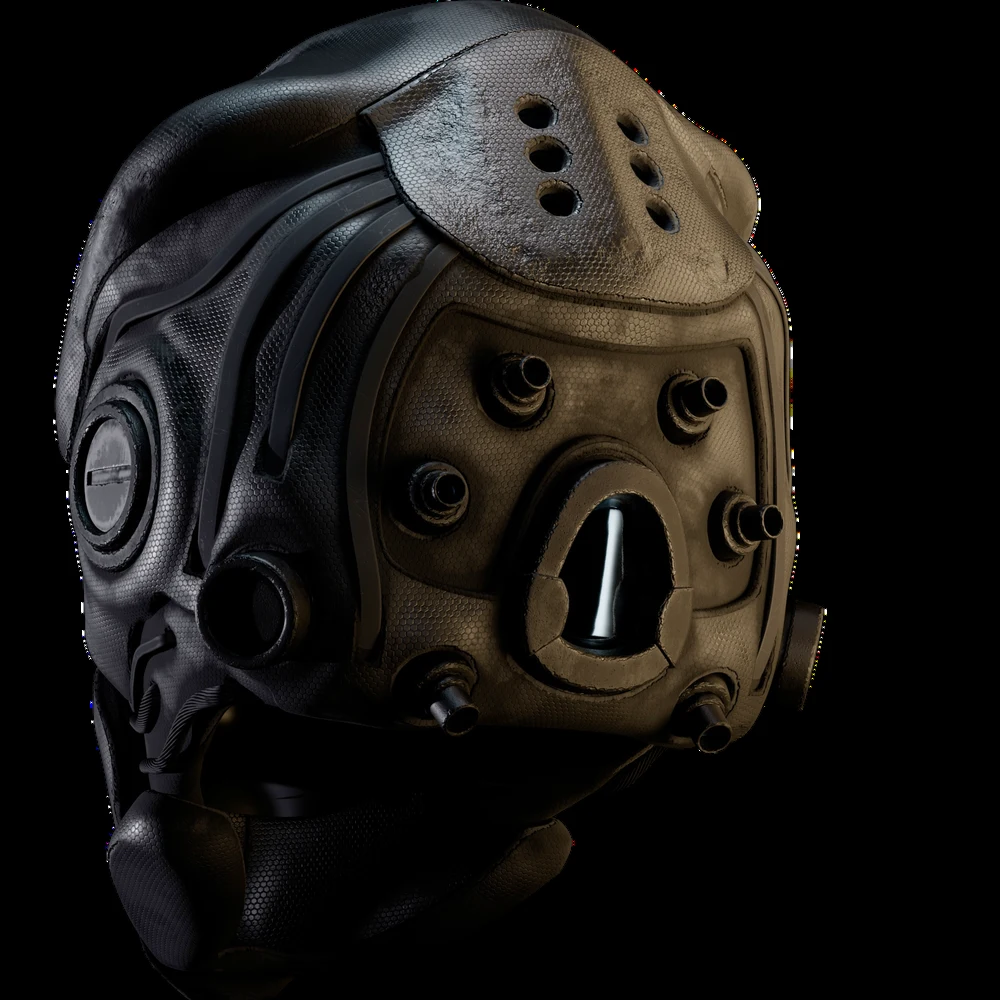
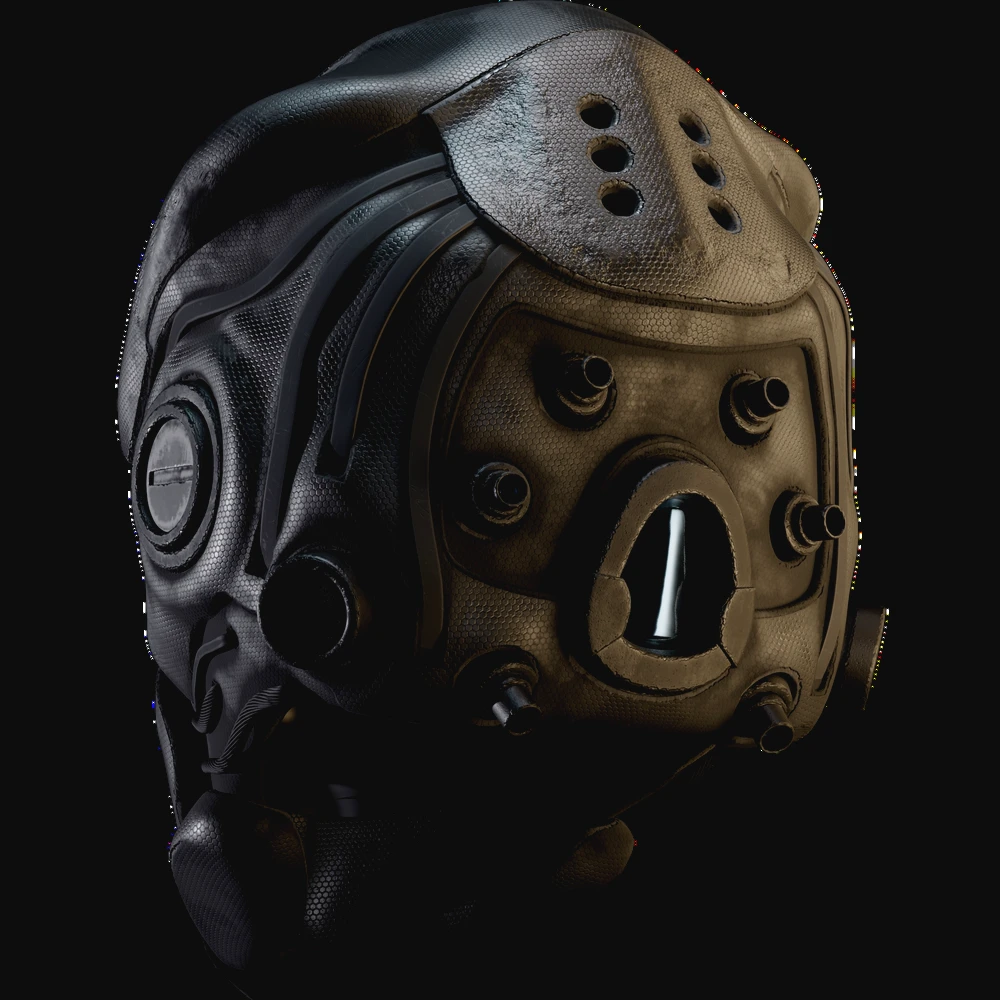
N7-T1.2 : vue arrière sans fond noir, nouvelle affiche en vignette

diff --git a/contact.html b/contact.html
@@ -16,11 +16,11 @@
   <meta property="og:description" content="Lorenzo Brun Di Dia — Character Artist & Groom Artist, 3D Generalist. Student in Character Design at ARTFX Montpellier.">
   <meta property="og:type" content="website">
   <link rel="icon" href="assets/favicon.svg" type="image/svg+xml">
-  <link rel="stylesheet" href="css/style.css?v=20261106-2">
-  <script src="data/site.js?v=20261106-2" defer></script>
-  <script src="data/projects.js?v=20261106-2" defer></script>
-  <script src="js/lightbox.js?v=20261106-2" defer></script>
-  <script src="js/app.js?v=20261106-2" defer></script>
+  <link rel="stylesheet" href="css/style.css?v=20261106-3">
+  <script src="data/site.js?v=20261106-3" defer></script>
+  <script src="data/projects.js?v=20261106-3" defer></script>
+  <script src="js/lightbox.js?v=20261106-3" defer></script>
+  <script src="js/app.js?v=20261106-3" defer></script>
 </head>
 <body data-page="contact">
   <a class="skip-link" href="#main">Skip to content</a>

diff --git a/project.html b/project.html
@@ -16,11 +16,11 @@
   <meta property="og:description" content="Lorenzo Brun Di Dia — Character Artist & Groom Artist, 3D Generalist. Student in Character Design at ARTFX Montpellier.">
   <meta property="og:type" content="website">
   <link rel="icon" href="assets/favicon.svg" type="image/svg+xml">
-  <link rel="stylesheet" href="css/style.css?v=20261106-2">
-  <script src="data/site.js?v=20261106-2" defer></script>
-  <script src="data/projects.js?v=20261106-2" defer></script>
-  <script src="js/lightbox.js?v=20261106-2" defer></script>
-  <script src="js/app.js?v=20261106-2" defer></script>
+  <link rel="stylesheet" href="css/style.css?v=20261106-3">
+  <script src="data/site.js?v=20261106-3" defer></script>
+  <script src="data/projects.js?v=20261106-3" defer></script>
+  <script src="js/lightbox.js?v=20261106-3" defer></script>
+  <script src="js/app.js?v=20261106-3" defer></script>
 </head>
 <body data-page="project">
   <a class="skip-link" href="#main">Skip to content</a>

diff --git a/about.html b/about.html
@@ -16,11 +16,11 @@
   <meta property="og:description" content="Lorenzo Brun Di Dia — Character Artist & Groom Artist, 3D Generalist. Student in Character Design at ARTFX Montpellier.">
   <meta property="og:type" content="website">
   <link rel="icon" href="assets/favicon.svg" type="image/svg+xml">
-  <link rel="stylesheet" href="css/style.css?v=20261106-2">
-  <script src="data/site.js?v=20261106-2" defer></script>
-  <script src="data/projects.js?v=20261106-2" defer></script>
-  <script src="js/lightbox.js?v=20261106-2" defer></script>
-  <script src="js/app.js?v=20261106-2" defer></script>
+  <link rel="stylesheet" href="css/style.css?v=20261106-3">
+  <script src="data/site.js?v=20261106-3" defer></script>
+  <script src="data/projects.js?v=20261106-3" defer></script>
+  <script src="js/lightbox.js?v=20261106-3" defer></script>
+  <script src="js/app.js?v=20261106-3" defer></script>
 </head>
 <body data-page="about">
   <a class="skip-link" href="#main">Skip to content</a>

diff --git a/index.html b/index.html
@@ -16,11 +16,11 @@
   <meta property="og:description" content="Lorenzo Brun Di Dia — Character Artist & Groom Artist, 3D Generalist. Student in Character Design at ARTFX Montpellier.">
   <meta property="og:type" content="website">
   <link rel="icon" href="assets/favicon.svg" type="image/svg+xml">
-  <link rel="stylesheet" href="css/style.css?v=20261106-2">
-  <script src="data/site.js?v=20261106-2" defer></script>
-  <script src="data/projects.js?v=20261106-2" defer></script>
-  <script src="js/lightbox.js?v=20261106-2" defer></script>
-  <script src="js/app.js?v=20261106-2" defer></script>
+  <link rel="stylesheet" href="css/style.css?v=20261106-3">
+  <script src="data/site.js?v=20261106-3" defer></script>
+  <script src="data/projects.js?v=20261106-3" defer></script>
+  <script src="js/lightbox.js?v=20261106-3" defer></script>
+  <script src="js/app.js?v=20261106-3" defer></script>
 </head>
 <body data-page="home">
   <a class="skip-link" href="#main">Skip to content</a>

diff --git a/work.html b/work.html
@@ -16,11 +16,11 @@
   <meta property="og:description" content="Lorenzo Brun Di Dia — Character Artist & Groom Artist, 3D Generalist. Student in Character Design at ARTFX Montpellier.">
   <meta property="og:type" content="website">
   <link rel="icon" href="assets/favicon.svg" type="image/svg+xml">
-  <link rel="stylesheet" href="css/style.css?v=20261106-2">
-  <script src="data/site.js?v=20261106-2" defer></script>
-  <script src="data/projects.js?v=20261106-2" defer></script>
-  <script src="js/lightbox.js?v=20261106-2" defer></script>
-  <script src="js/app.js?v=20261106-2" defer></script>
+  <link rel="stylesheet" href="css/style.css?v=20261106-3">
+  <script src="data/site.js?v=20261106-3" defer></script>
+  <script src="data/projects.js?v=20261106-3" defer></script>
+  <script src="js/lightbox.js?v=20261106-3" defer></script>
+  <script src="js/app.js?v=20261106-3" defer></script>
 </head>
 <body data-page="work">
   <a class="skip-link" href="#main">Skip to content</a>

diff --git a/404.html b/404.html
@@ -16,11 +16,11 @@
   <meta property="og:description" content="Lorenzo Brun Di Dia — Character Artist & Groom Artist, 3D Generalist. Student in Character Design at ARTFX Montpellier.">
   <meta property="og:type" content="website">
   <link rel="icon" href="assets/favicon.svg" type="image/svg+xml">
-  <link rel="stylesheet" href="css/style.css?v=20261106-2">
-  <script src="data/site.js?v=20261106-2" defer></script>
-  <script src="data/projects.js?v=20261106-2" defer></script>
-  <script src="js/lightbox.js?v=20261106-2" defer></script>
-  <script src="js/app.js?v=20261106-2" defer></script>
+  <link rel="stylesheet" href="css/style.css?v=20261106-3">
+  <script src="data/site.js?v=20261106-3" defer></script>
+  <script src="data/projects.js?v=20261106-3" defer></script>
+  <script src="js/lightbox.js?v=20261106-3" defer></script>
+  <script src="js/app.js?v=20261106-3" defer></script>
 </head>
 <body data-page="404">
   <a class="skip-link" href="#main">Skip to content</a>

diff --git a/legal.html b/legal.html
@@ -16,11 +16,11 @@
   <meta property="og:description" content="Lorenzo Brun Di Dia — Character Artist & Groom Artist, 3D Generalist. Student in Character Design at ARTFX Montpellier.">
   <meta property="og:type" content="website">
   <link rel="icon" href="assets/favicon.svg" type="image/svg+xml">
-  <link rel="stylesheet" href="css/style.css?v=20261106-2">
-  <script src="data/site.js?v=20261106-2" defer></script>
-  <script src="data/projects.js?v=20261106-2" defer></script>
-  <script src="data/legal.js?v=20261106-2" defer></script>
-  <script src="js/app.js?v=20261106-2" defer></script>
+  <link rel="stylesheet" href="css/style.css?v=20261106-3">
+  <script src="data/site.js?v=20261106-3" defer></script>
+  <script src="data/projects.js?v=20261106-3" defer></script>
+  <script src="data/legal.js?v=20261106-3" defer></script>
+  <script src="js/app.js?v=20261106-3" defer></script>
 </head>
 <body data-page="legal">
   <a class="skip-link" href="#main">Skip to content</a>

diff --git a/terms.html b/terms.html
@@ -16,11 +16,11 @@
   <meta property="og:description" content="Lorenzo Brun Di Dia — Character Artist & Groom Artist, 3D Generalist. Student in Character Design at ARTFX Montpellier.">
   <meta property="og:type" content="website">
   <link rel="icon" href="assets/favicon.svg" type="image/svg+xml">
-  <link rel="stylesheet" href="css/style.css?v=20261106-2">
-  <script src="data/site.js?v=20261106-2" defer></script>
-  <script src="data/projects.js?v=20261106-2" defer></script>
-  <script src="data/legal.js?v=20261106-2" defer></script>
-  <script src="js/app.js?v=20261106-2" defer></script>
+  <link rel="stylesheet" href="css/style.css?v=20261106-3">
+  <script src="data/site.js?v=20261106-3" defer></script>
+  <script src="data/projects.js?v=20261106-3" defer></script>
+  <script src="data/legal.js?v=20261106-3" defer></script>
+  <script src="js/app.js?v=20261106-3" defer></script>
 </head>
 <body data-page="terms">
   <a class="skip-link" href="#main">Skip to content</a>
